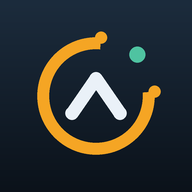
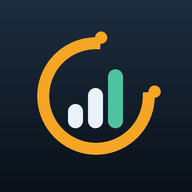
Add files via upload

Changed region(s): [[0.3125, 0.3438, 0.6875, 0.6875], [0.6562, 0.2188, 0.7812, 0.3438]]

diff --git a/app.js b/app.js
@@ -520,7 +520,8 @@ function openDaySwap() {
 /* ---------- sessione in corso ---------- */
 function startSession(sess) {
   current = { sess, pos: 0, setsDone: sess.items.map(() => 0), loads: sess.items.map(() => ''),
-              feedback: sess.items.map(() => null), started: Date.now() };
+              feedback: sess.items.map(() => null), logRef: sess.items.map(() => null),
+              started: Date.now() };
   requestWakeLock();
   unlockAudio();
   go('session');
@@ -593,7 +594,10 @@ function renderSession() {
         <button class="btn ghost" id="postponeBtn" ${c.pos === s.items.length - 1 ? 'disabled' : ''}>Rimanda a dopo</button>
         <button class="btn ghost" id="orderBtn" ${c.pos === s.items.length - 1 ? 'disabled' : ''}>Ordine esercizi</button>
       </div>
-      <button class="btn ghost" id="nextBtn" style="margin-top:10px">${c.pos === s.items.length - 1 ? 'Chiudi sessione' : 'Prossimo esercizio'}</button>
+      <div class="btn-row" style="margin-top:10px">
+        <button class="btn ghost" id="prevBtn" ${c.pos === 0 ? 'disabled' : ''}>‹ Precedente</button>
+        <button class="btn ghost" id="nextBtn">${c.pos === s.items.length - 1 ? 'Chiudi sessione' : 'Prossimo esercizio'}</button>
+      </div>
       <p class="small muted" style="margin-top:14px">${esc(it.source)}${it.note ? ' · ' + esc(it.note) : ''}</p>
       <button class="btn ghost" id="abortBtn" style="margin-top:18px">Interrompi</button>
     </div>`;
@@ -635,6 +639,7 @@ function renderSession() {
         'Cambia', () => { c.setsDone[c.pos] = 0; c.loads[c.pos] = ''; c.feedback[c.pos] = null; if (swapExercise(it, s)) renderSession(); });
     } else if (swapExercise(it, s)) renderSession();
   };
+  $('#prevBtn').onclick = () => { captureLoad(); stopTimer(); if (c.pos > 0) { c.pos--; renderSession(); } };
   $('#postponeBtn').onclick = () => { captureLoad(); stopTimer(); postponeCurrent(); };
   $('#orderBtn').onclick = () => { captureLoad(); openReorder(); };
   $('#nextBtn').onclick = () => {
@@ -660,7 +665,7 @@ function renderSession() {
 function moveItem(from, to) {
   const c = current, s = c.sess;
   if (from === to || from < c.pos || to < c.pos || to >= s.items.length) return;
-  [s.items, c.setsDone, c.loads, c.feedback].forEach(arr => {
+  [s.items, c.setsDone, c.loads, c.feedback, c.logRef].forEach(arr => {
     const v = arr.splice(from, 1)[0];
     arr.splice(to, 0, v);
   });
@@ -708,11 +713,15 @@ const arrow = f => f === 'up' ? '<span class="trend-up">↑</span>' : f === 'dow
 function nextExercise() {
   const c = current, s = c.sess;
   if (c.finished) return;              // evita doppie registrazioni sull'ultimo esercizio
-  // registra l'esercizio appena concluso
+  // registra l'esercizio appena concluso (o aggiorna il record, se ci si era
+  // tornati sopra con "Esercizio precedente": niente doppioni nello storico)
   const it = s.items[c.pos];
-  S.logs.push({ ts: Date.now(), exId: it.exId, name: exById(it.exId).name, setup: S.setup,
-                load: c.loads[c.pos] || '', feedback: c.feedback[c.pos] || 'same',
-                sets: c.setsDone[c.pos], reps: it.reps, goal: it.goal, week: s.weekInCycle });
+  const entry = { ts: Date.now(), sid: c.started, exId: it.exId, name: exById(it.exId).name,
+                  setup: S.setup, load: c.loads[c.pos] || '', feedback: c.feedback[c.pos] || 'same',
+                  sets: c.setsDone[c.pos], reps: it.reps, goal: it.goal, week: s.weekInCycle };
+  const ref = c.logRef[c.pos];
+  if (ref !== null && S.logs[ref]) S.logs[ref] = entry;
+  else { c.logRef[c.pos] = S.logs.length; S.logs.push(entry); }
   save();
   if (c.pos < s.items.length - 1) { c.pos++; renderSession(); }
   else { c.finished = true; endSession(); }
@@ -730,7 +739,8 @@ function endSession() {
     <button class="btn ghost" id="skipSave" style="margin-top:10px">Chiudi senza note</button>
   `);
   const finish = (withNote) => {
-    S.sessionLog.push({ ts: Date.now(), idx: s.idx, label: s.label, kind: s.kind, minutes: mins,
+    S.sessionLog.push({ ts: Date.now(), sid: current ? current.started : 0, idx: s.idx,
+      label: s.label, kind: s.kind, minutes: mins,
       note: withNote ? ($('#sNote').value || '') : '' });
     if (s.kind !== 'core') S.sessionIndex++;
     planCache = null;
@@ -792,15 +802,47 @@ function renderHistory() {
       <div class="val">${esc(last.load || '—')} ${arrow(last.feedback)}</div></li>`;
   }).join('');
 
-  const sess = S.sessionLog.slice(-8).reverse().map(x =>
-    `<li><div class="nm" style="flex:1"><b>${esc(x.label)}</b>
-      <div class="small muted">${new Date(x.ts).toLocaleDateString('it-IT')} · ${x.minutes} min${x.note ? ' · ' + esc(x.note) : ''}</div></div></li>`).join('');
+  const sess = S.sessionLog.map((x, i) => [x, i]).slice(-10).reverse().map(pair => {
+    const x = pair[0], i = pair[1];
+    return `<li data-sess="${i}"><div class="nm" style="flex:1"><b>${esc(x.label)}</b>
+      <div class="small muted">${new Date(x.ts).toLocaleDateString('it-IT')} · ${x.minutes} min${x.note ? ' · ' + esc(x.note) : ''}</div></div>
+      <div class="chev">›</div></li>`;
+  }).join('');
 
   $('#view-history').innerHTML = `
     <div class="card"><h2>Carichi per esercizio</h2><ul class="hist">${rows}</ul></div>
     ${sess ? `<div class="card"><h2>Ultime sedute</h2><ul class="hist">${sess}</ul></div>` : ''}`;
 
   document.querySelectorAll('[data-ex]').forEach(li => li.onclick = () => detailFor(li.dataset.ex, byEx[li.dataset.ex]));
+  document.querySelectorAll('[data-sess]').forEach(li => li.onclick = () => openSessionDetail(+li.dataset.sess));
+}
+
+/* Esercizi appartenenti a una seduta già conclusa: si usa l'identificativo di
+   sessione salvato nei record; per i dati più vecchi si ricade sulla finestra
+   temporale della seduta. */
+function logsOfSession(x) {
+  if (x.sid) {
+    const l = S.logs.filter(g => g.sid === x.sid);
+    if (l.length) return l;
+  }
+  const start = x.ts - (x.minutes + 3) * 60000;
+  return S.logs.filter(g => g.ts >= start && g.ts <= x.ts + 60000);
+}
+
+/* Riepilogo completo di una seduta già chiusa. */
+function openSessionDetail(i) {
+  const x = S.sessionLog[i], logs = logsOfSession(x);
+  const d = new Date(x.ts);
+  const rows = logs.map(l => `<li>
+      <div class="nm" style="flex:1"><b>${esc(l.name)}</b>
+        <div class="small muted">${l.sets}×${l.reps} · ${l.goal === 'stretch' ? 'allungamento' : esc(l.goal)}</div></div>
+      <div class="val">${esc(l.load || '—')} ${arrow(l.feedback)}</div></li>`).join('');
+  openModal(`<h2>${esc(x.label)}</h2>
+    <p class="small muted">${d.toLocaleDateString('it-IT')} alle ${d.toLocaleTimeString('it-IT', { hour: '2-digit', minute: '2-digit' })} · ${x.minutes} minuti · ${logs.length} esercizi${x.kind === 'core' ? ' · blocco core' : ''}</p>
+    ${x.note ? `<div class="notice" style="margin-bottom:10px">${esc(x.note)}</div>` : ''}
+    <ul class="hist">${rows || '<li><span class="small muted">Nessun esercizio registrato per questa seduta.</span></li>'}</ul>
+    <button class="btn secondary" id="closeModal2" style="margin-top:16px">Chiudi</button>`);
+  $('#closeModal2').onclick = closeModal;
 }
 
 function sparkline(vals) {
@@ -1163,6 +1205,15 @@ function confirmAction(title, text, okLabel, onOk) {
   $('#cfNo').onclick = closeModal;
 }
 
+/* Orologio: sempre visibile nella barra superiore e durante il timer. */
+function updateClock() {
+  const t = new Date().toLocaleTimeString('it-IT', { hour: '2-digit', minute: '2-digit' });
+  const a = $('#clock'), b = $('#timerClock');
+  if (a) a.textContent = t;
+  if (b) b.textContent = t;
+}
+setInterval(updateClock, 10000);
+
 function openModal(html) { $('#modalBox').innerHTML = html; $('#modal').classList.add('on'); }
 function closeModal() { $('#modal').classList.remove('on'); }
 
@@ -1189,13 +1240,19 @@ function disclaimer() {
     return;
   }
   go('home');
-  // l'intro resta visibile ~2 s, poi viene rimossa e solo dopo compare l'avvertenza
+  // l'intro si anima per 3 secondi e resta sull'ultimo fotogramma: sparisce solo
+  // quando l'utente tocca lo schermo, e solo dopo compare l'avvertenza
   const splash = document.getElementById('splash');
   const afterSplash = () => {
-    if (splash && splash.parentNode) splash.parentNode.removeChild(splash);
-    if (!S.disclaimerOk) disclaimer();
+    if (!splash || splash.dataset.done) { if (!S.disclaimerOk) disclaimer(); return; }
+    splash.dataset.done = '1';
+    splash.classList.add('hide');
+    setTimeout(() => {
+      if (splash.parentNode) splash.parentNode.removeChild(splash);
+      if (!S.disclaimerOk) disclaimer();
+    }, 420);
   };
-  if (splash) { splash.onclick = afterSplash; setTimeout(afterSplash, 2300); }
-  else afterSplash();
+  if (splash) splash.onclick = afterSplash; else afterSplash();
+  updateClock();
   if ('serviceWorker' in navigator) navigator.serviceWorker.register('sw.js').catch(() => {});
 })();

diff --git a/styles.css b/styles.css
@@ -301,29 +301,46 @@ h1,h2{letter-spacing:.005em}
   position:fixed;inset:0;z-index:100;display:flex;flex-direction:column;
   align-items:center;justify-content:center;gap:14px;
   background:radial-gradient(90% 60% at 50% 40%, #1C2C3D 0%, #0B121A 70%);
-  animation:splashOut .45s 1.85s forwards;
 }
-.splash .logo{width:118px;height:118px;animation:logoIn .7s cubic-bezier(.2,.8,.3,1) both}
-.splash .ring{stroke-dashoffset:277;animation:ringDraw 1s .15s cubic-bezier(.2,.8,.3,1) forwards}
-.splash .chev{opacity:0;animation:rise .55s .5s cubic-bezier(.2,.8,.3,1) forwards}
-.splash .dot{opacity:0;transform-origin:91px 29px;animation:pop .45s .95s cubic-bezier(.2,1.4,.4,1) forwards}
+.splash.hide{animation:splashOut .4s forwards}
+.splash .logo{width:122px;height:122px;animation:logoIn .8s cubic-bezier(.2,.8,.3,1) both}
+.splash .ring{stroke-dashoffset:277;animation:ringDraw 1.5s .15s cubic-bezier(.2,.8,.3,1) forwards}
+.splash .bar{opacity:0;animation:barIn .55s cubic-bezier(.2,.8,.3,1) forwards}
+.splash .b1{animation-delay:.75s}
+.splash .b2{animation-delay:1s}
+.splash .b3{animation-delay:1.25s}
 .splash .word{
   font-family:var(--cond);font-size:30px;letter-spacing:.22em;color:var(--text);
-  opacity:0;animation:fadeUp .6s .75s ease-out forwards;
+  opacity:0;animation:fadeUp .7s 1.6s ease-out forwards;
 }
 .splash .word b{color:var(--amber);font-weight:700}
 .splash .tag{
   font-size:13px;letter-spacing:.14em;text-transform:uppercase;color:var(--muted);
-  opacity:0;animation:fadeUp .6s 1.05s ease-out forwards;
+  opacity:0;animation:fadeUp .7s 2.15s ease-out forwards;
+}
+.splash .hint{
+  position:absolute;bottom:calc(48px + env(safe-area-inset-bottom));
+  font-size:14px;letter-spacing:.1em;text-transform:uppercase;color:var(--muted);
+  opacity:0;animation:fadeUp .5s 2.9s ease-out forwards, pulse 2.2s 3.4s ease-in-out infinite;
 }
 @keyframes ringDraw{to{stroke-dashoffset:0}}
 @keyframes logoIn{from{opacity:0;transform:scale(.86)}to{opacity:1;transform:scale(1)}}
 @keyframes rise{from{opacity:0;transform:translateY(14px)}to{opacity:1;transform:translateY(0)}}
-@keyframes pop{from{opacity:0;transform:scale(.2)}to{opacity:1;transform:scale(1)}}
+@keyframes barIn{from{opacity:0;transform:translateY(12px)}to{opacity:1;transform:translateY(0)}}
+@keyframes pulse{0%,100%{opacity:.45}50%{opacity:1}}
 @keyframes fadeUp{from{opacity:0;transform:translateY(10px)}to{opacity:1;transform:translateY(0)}}
 @keyframes splashOut{to{opacity:0;visibility:hidden}}
 @media (prefers-reduced-motion:reduce){
   .splash,.splash *{animation:none!important}
   .splash .ring{stroke-dashoffset:0}
-  .splash .chev,.splash .dot,.splash .word,.splash .tag{opacity:1}
+  .splash .bar,.splash .word,.splash .tag,.splash .hint{opacity:1}
+}
+
+
+/* orologio: barra superiore e timer a tutto schermo */
+.rightcol{display:flex;flex-direction:column;align-items:flex-end;gap:5px}
+.clock{font-family:var(--cond);font-size:16px;color:var(--muted);letter-spacing:.04em}
+.timer-clock{
+  position:absolute;top:calc(env(safe-area-inset-top) + 18px);left:0;right:0;text-align:center;
+  font-family:var(--cond);font-size:17px;color:var(--muted);letter-spacing:.06em;
 }

diff --git a/index.html b/index.html
@@ -14,7 +14,9 @@
 </head>
 <body>
 <!-- Intro di apertura: circa 2 secondi, poi si dissolve da sola -->
-<div class="splash" id="splash" aria-hidden="true">
+<!-- Intro di apertura: si anima per 3 secondi e resta sull'ultimo fotogramma
+     finché l'utente non tocca lo schermo -->
+<div class="splash" id="splash">
   <svg class="logo" viewBox="0 0 120 120">
     <defs>
       <linearGradient id="logoGrad" x1="0" y1="0" x2="1" y2="1">
@@ -24,12 +26,13 @@
     <circle class="ring" cx="60" cy="60" r="44" fill="none" stroke="url(#logoGrad)"
             stroke-width="9" stroke-linecap="round" stroke-dasharray="214 62.5"
             transform="rotate(-4.3 60 60)"/>
-    <path class="chev" d="M42 73 L60 47 L78 73" fill="none" stroke="#EAF1F8"
-          stroke-width="10" stroke-linecap="round" stroke-linejoin="round"/>
-    <circle class="dot" cx="91" cy="29" r="6" fill="#4FC3A1"/>
+    <rect class="bar b1" x="39" y="66" width="11" height="18" rx="5.5" fill="#EAF1F8"/>
+    <rect class="bar b2" x="54" y="54" width="11" height="30" rx="5.5" fill="#EAF1F8"/>
+    <rect class="bar b3" x="69" y="40" width="11" height="44" rx="5.5" fill="#4FC3A1"/>
   </svg>
   <div class="word">PALESTRA <b>50</b></div>
   <div class="tag">Forza · Mobilità · Ogni giorno</div>
+  <div class="hint">Tocca per iniziare</div>
 </div>
 
 <div class="app">
@@ -39,12 +42,15 @@
       <svg class="mark" viewBox="0 0 120 120" aria-hidden="true">
         <circle cx="60" cy="60" r="44" fill="none" stroke="#F5A524" stroke-width="10"
                 stroke-linecap="round" stroke-dasharray="214 62.5" transform="rotate(-4.3 60 60)"/>
-        <path d="M42 73 L60 47 L78 73" fill="none" stroke="#EAF1F8" stroke-width="11"
-              stroke-linecap="round" stroke-linejoin="round"/>
-        <circle cx="91" cy="29" r="7" fill="#4FC3A1"/>
+        <rect x="39" y="66" width="11" height="18" rx="5.5" fill="#EAF1F8"/>
+        <rect x="54" y="54" width="11" height="30" rx="5.5" fill="#EAF1F8"/>
+        <rect x="69" y="40" width="11" height="44" rx="5.5" fill="#4FC3A1"/>
       </svg>
       <h1 id="topTitle">Oggi</h1>
-      <span class="chip" id="topChip">—</span>
+      <div class="rightcol">
+        <span class="clock num" id="clock">--:--</span>
+        <span class="chip" id="topChip">—</span>
+      </div>
     </div>
   </header>
 
@@ -78,6 +84,7 @@
 
 <!-- Timer di recupero a tutto schermo -->
 <div class="timer" id="timer">
+  <div class="timer-clock num" id="timerClock">--:--</div>
   <div style="position:relative;display:grid;place-items:center">
     <svg class="ring" viewBox="0 0 100 100">
       <circle cx="50" cy="50" r="45" stroke="#2B3B4E" stroke-width="7" fill="none"/>

diff --git a/sw.js b/sw.js
@@ -1,6 +1,6 @@
 /* Service worker: cache-first sull'app shell, così l'app funziona anche senza
    rete (utile in palestre con poco segnale). Cambia CACHE a ogni aggiornamento. */
-const CACHE = 'palestra50-v6';
+const CACHE = 'palestra50-v7';
 const ASSETS = [
   './', './index.html', './styles.css', './app.js',
   './exercises.json', './programs.json', './poses.json',

diff --git a/README.md b/README.md
@@ -112,6 +112,15 @@ I file devono restare tutti allo stesso livello: la struttura è piatta apposta,
 ### Alternativa più rapida ma temporanea
 Su `app.netlify.com/drop`, dopo aver fatto l'accesso, puoi caricare direttamente il file **`palestra50.zip`** dal selettore file: Netlify lo scompatta e ti dà subito un indirizzo `https://...netlify.app`. È comodo per provare l'app in due minuti, ma senza account collegato quei siti sono provvisori: per l'uso quotidiano resta meglio GitHub Pages.
 
+### Sostituire l'icona sulla schermata Home
+
+iOS fotografa l'icona al momento dell'installazione e non la aggiorna da sola: dopo aver cambiato le icone nel repository bisogna reinstallare la scorciatoia.
+
+1. Carica le tre icone aggiornate (`icon-192.png`, `icon-512.png`, `icon-512-maskable.png`) insieme agli altri file.
+2. Sulla schermata Home tieni premuta l'icona vecchia → **Rimuovi app** → **Rimuovi dalla schermata Home** (i tuoi dati non si perdono: restano nell'archivio del sito).
+3. Apri l'indirizzo dell'app con Safari, tocca **Condividi** → **Aggiungi a Home** → **Aggiungi**.
+4. Se ricompare l'icona vecchia, in Safari apri Impostazioni → Safari → Cancella dati siti web e cronologia oppure ricarica la pagina due volte, poi ripeti il punto 3.
+
 ### Aggiornare l'app in seguito
 Carica i file modificati nello stesso repository (**Add file → Upload files** sovrascrive quelli con lo stesso nome) e cambia il numero di versione in `sw.js` (`palestra50-v1` → `palestra50-v2`), altrimenti l'iPhone continua a usare la copia in cache. Poi apri l'app, chiudila dal multitasking e riaprila.
 
@@ -127,7 +136,9 @@ I tuoi dati (carichi, storico, settimana del ciclo) restano sul telefono, non su
 
 ## 3. Uso quotidiano
 
-All'apertura scorre un'intro di circa due secondi con il marchio dell'app (un anello aperto, il segno di ascesa e il punto verde della mobilità); si può saltare toccando lo schermo, e rispetta l'impostazione di sistema per il movimento ridotto. Subito dopo compare la seduta del giorno.
+All'apertura scorre un'intro di tre secondi: l'anello del marchio si disegna, le tre barre della progressione salgono una dopo l'altra, compaiono nome e sottotitolo. Finita l'animazione l'intro resta ferma sull'ultimo fotogramma e sparisce **solo quando tocchi lo schermo** (in basso compare il suggerimento "Tocca per iniziare"). Rispetta l'impostazione di sistema per il movimento ridotto.
+
+**L'ora** è sempre visibile in piccolo in alto a destra, sopra l'indicatore della settimana, e al centro in alto durante il timer a tutto schermo: comoda per sapere da quanto sei in palestra senza uscire dall'app.
 
 - **Oggi**: scegli palestra o casa, controlla la seduta e premi *Inizia la sessione*.
 - Nell'elenco della seduta, **tocca un esercizio** per aprirne subito la scheda illustrativa, senza dover iniziare l'allenamento.
@@ -136,12 +147,13 @@ All'apertura scorre un'intro di circa due secondi con il marchio dell'app (un an
 - **Esercizi da fare un lato alla volta** (split squat, rematore a un braccio, plank laterale, quasi tutti gli allungamenti) hanno sempre un **numero pari di serie**, così destra e sinistra ricevono lo stesso lavoro: il contatore mostra `1 Sx`, `1 Dx`, `2 Sx`… e il pulsante di avvio indica il lato da fare.
 - **Cambia esercizio**: nella sessione, il pulsante *Cambia esercizio* propone un'alternativa dello stesso schema di movimento (o dello stesso gruppo, per lo stretching), coerente con attrezzatura, obiettivo della seduta e filtro ginocchio; premendolo più volte scorri tutte le alternative. La stessa cosa si può fare prima di iniziare, dalla scheda che si apre toccando un esercizio nell'elenco di Oggi.
 - **Scambia seduta**: in Oggi puoi anticipare un'altra seduta della settimana (per esempio fare il potenziamento al posto della mobilità). Quella di oggi prende il suo posto più avanti, quindi nessuna seduta va persa e il conteggio delle 5 settimanali resta intatto.
+- **Esercizio precedente**: il pulsante *‹ Precedente* torna indietro nella scaletta per correggere un carico o completare una serie saltata. Lo storico non si sdoppia: il record dell'esercizio viene aggiornato, non duplicato.
 - **Ordine degli esercizi**: se una macchina o un attrezzo è occupato, usa *Rimanda a dopo* (sposta l'esercizio corrente in fondo) oppure *Ordine esercizi*, che apre la scaletta di quello che resta da fare con le frecce su/giù. Serie già completate, carico e feedback seguono l'esercizio spostato.
 - **Timer riducibile**: durante il recupero tocca *Riduci*. Il conto alla rovescia resta in una barretta in basso e nel frattempo puoi consultare le schede, lo storico o cambiare vista. Tocca la barretta per tornare a schermo intero, o *Salta* per riprendere subito.
 - Chiusura e interruzione della sessione chiedono sempre conferma, così non si esce per errore. Se esci dalla vista della sessione, in Oggi compare il banner **Riprendi**.
 - **Scheda esercizio**: esecuzione passo-passo, muscoli primari e secondari, errori comuni, avvertenze di sicurezza e le due figure inizio/fine.
 - A fine seduta puoi annotare una nota libera sulla seduta (sensazioni, ginocchio, carichi).
-- **Progressi**: andamento del carico per esercizio e riepilogo delle ultime sedute.
+- **Progressi**: andamento del carico per esercizio e riepilogo delle ultime dieci sedute. Toccando una seduta si apre il suo **riepilogo completo**: data e ora, durata, nota, e l'elenco degli esercizi svolti con serie, ripetizioni, carico e feedback.
 - **Programma**: cambio di programma (3, 4 o 6 settimane), attrezzatura predefinita, priorità ginocchio, esclusione degli esercizi critici per la spalla, spostamento avanti/indietro nella settimana, esportazione e azzeramento dati.
 
 ---
